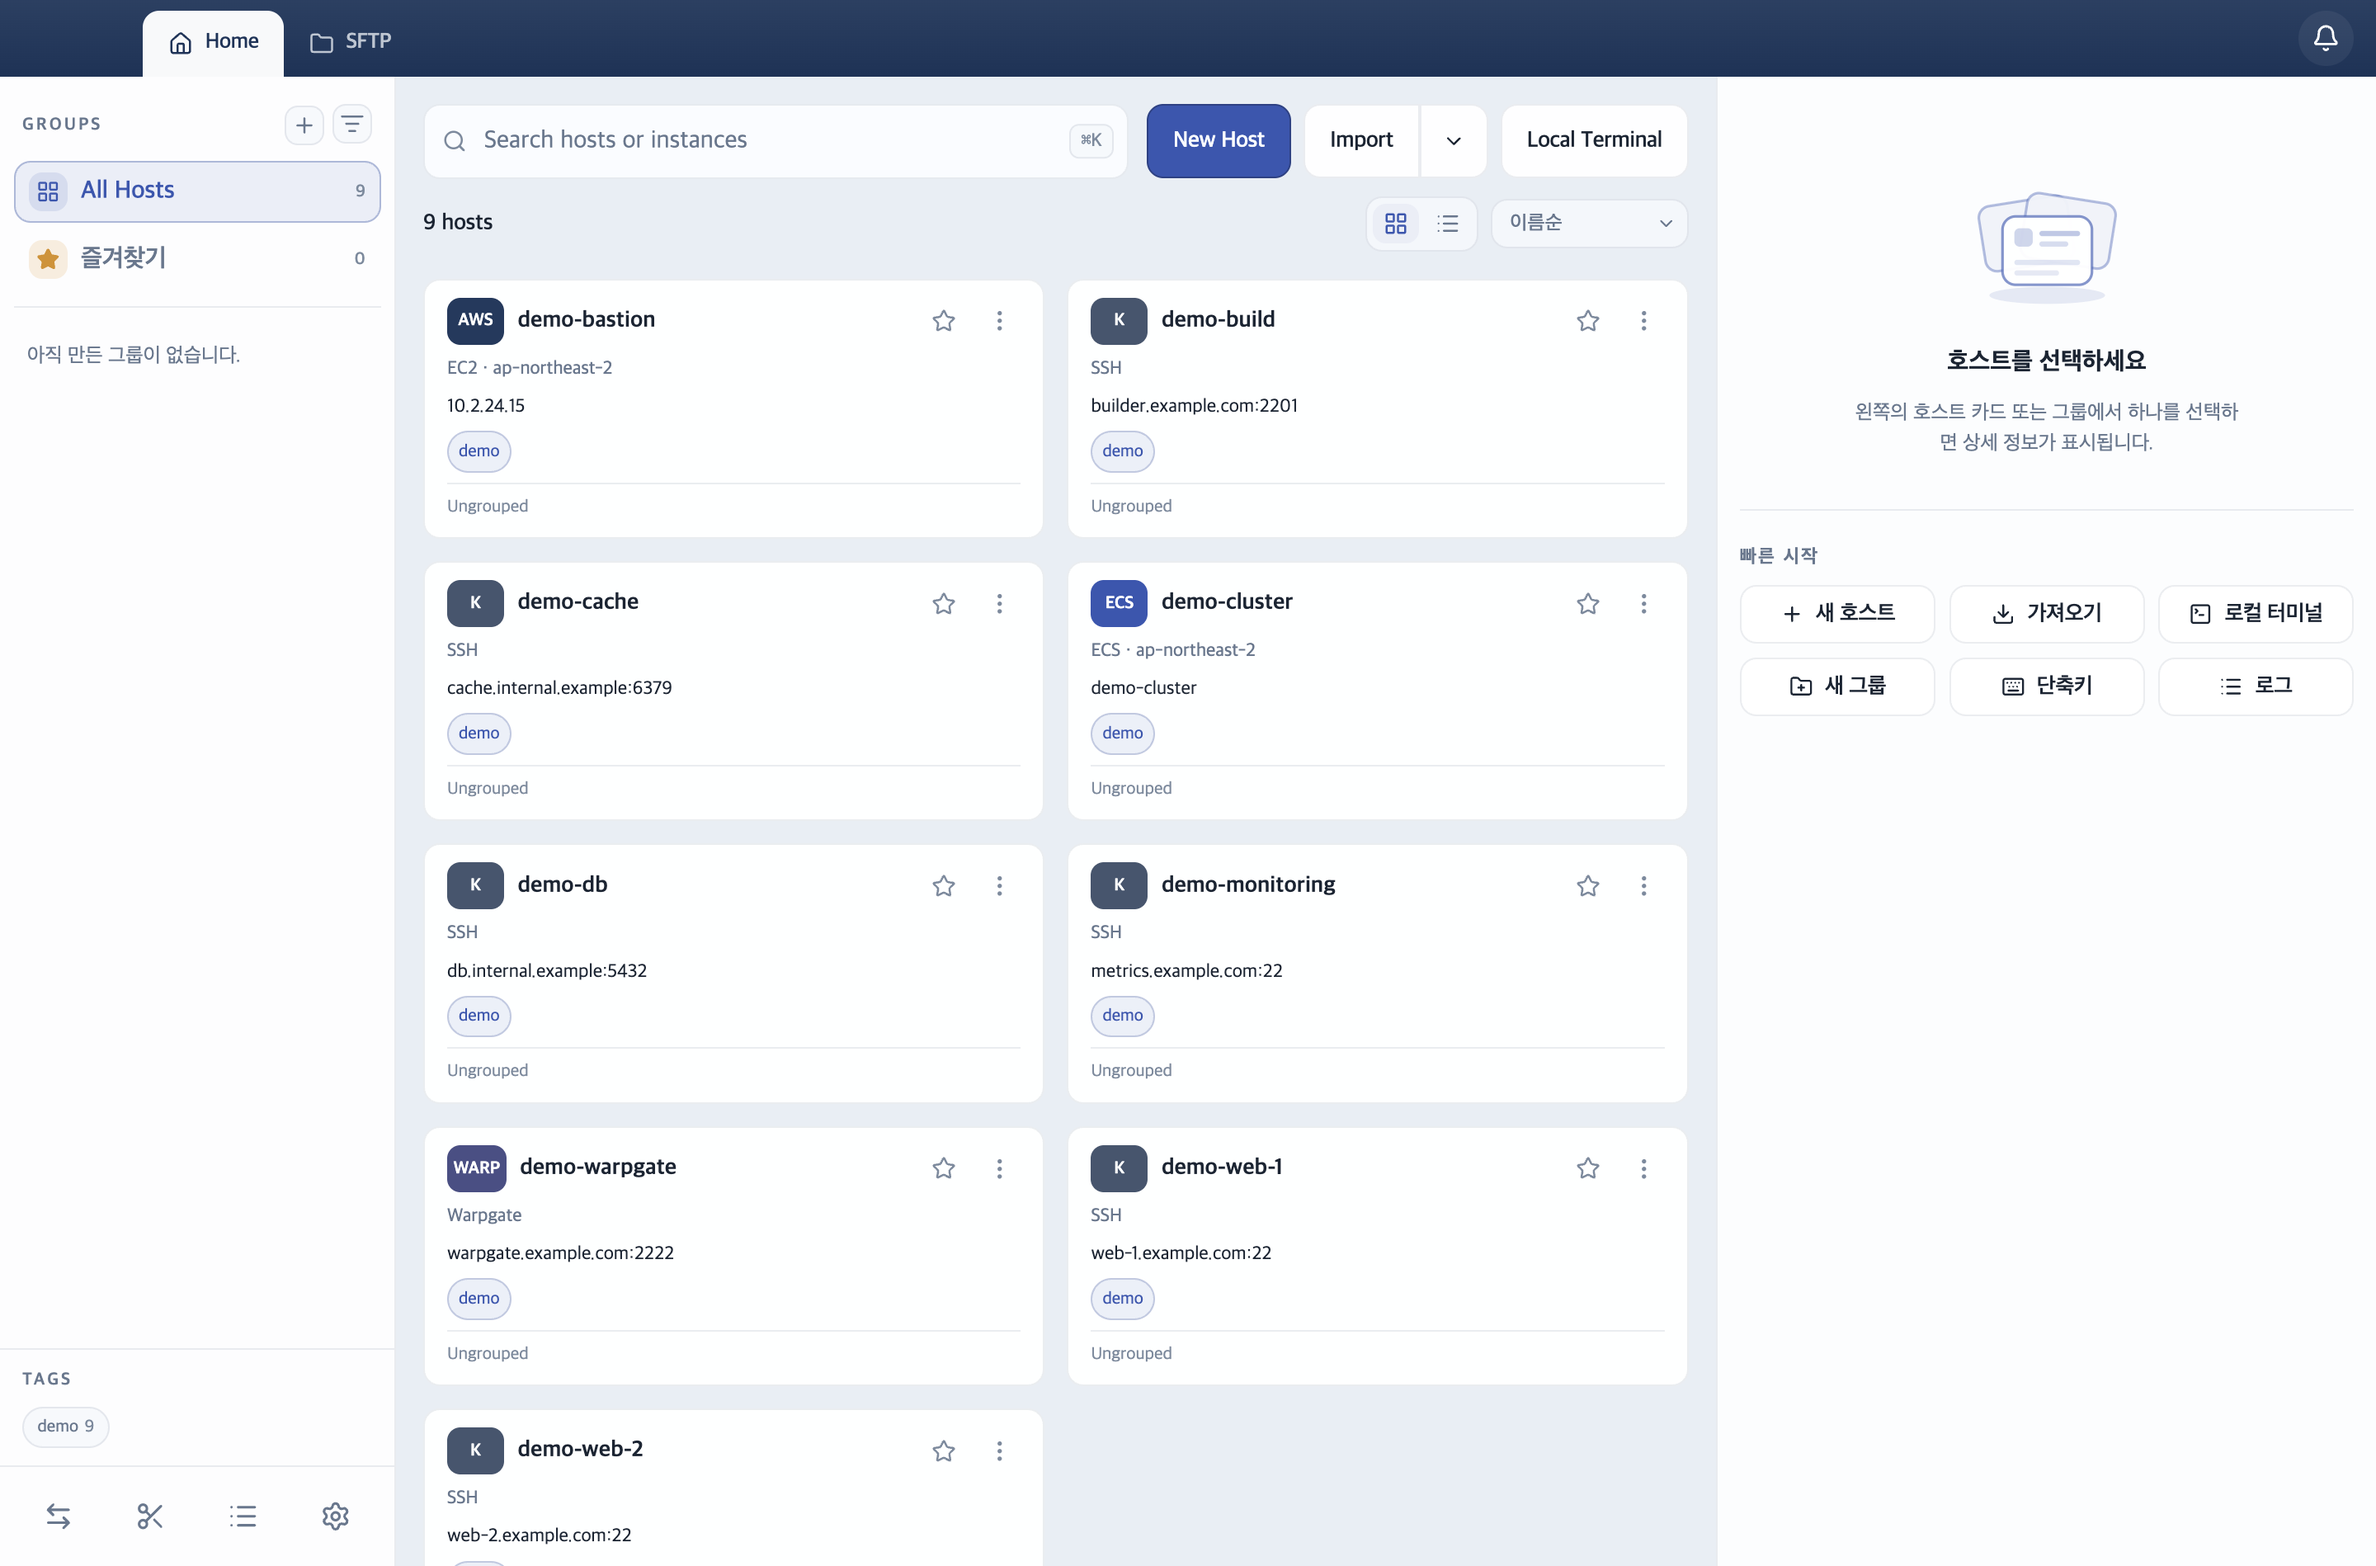
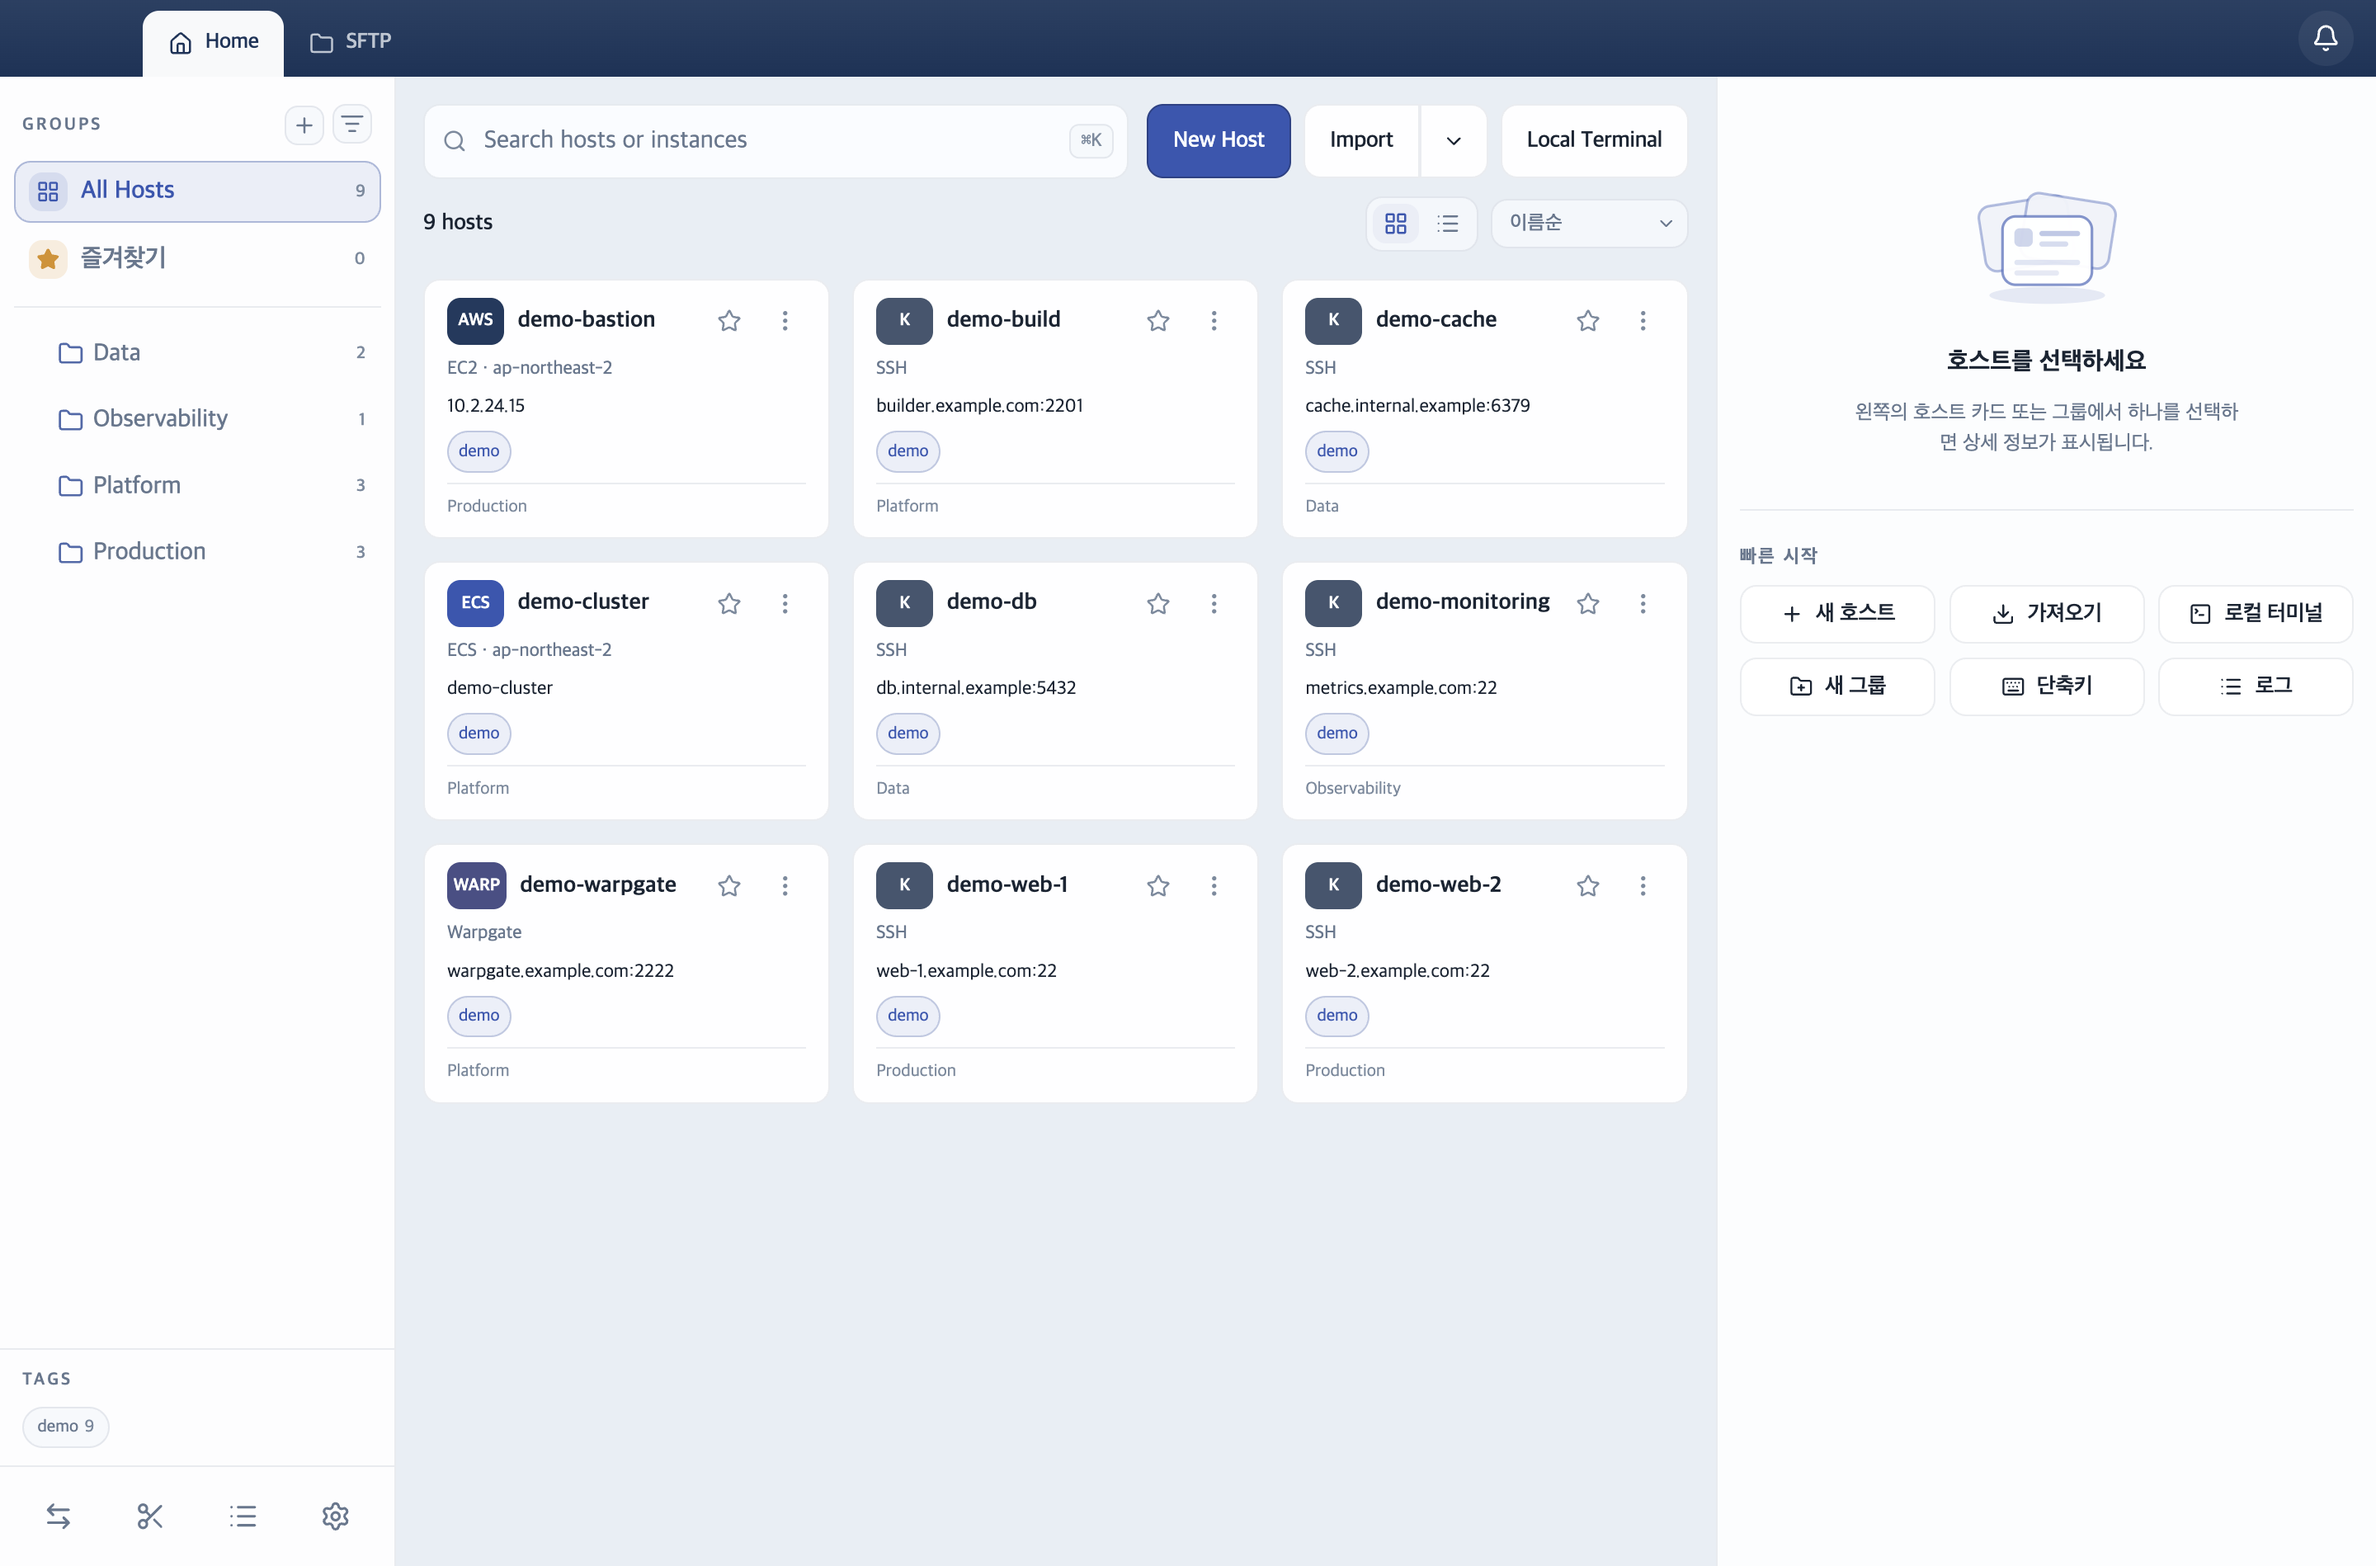
fix(desktop): Host 카드 크기 조정

diff --git a/apps/desktop/src/renderer/components/HostBrowser.test.tsx b/apps/desktop/src/renderer/components/HostBrowser.test.tsx
@@ -18,6 +18,11 @@ import {
   HOST_BROWSER_IMPORT_MENU_LABELS
 } from './HostBrowser';
 import { resolveResponsiveCardGridLayout } from '../lib/responsive-card-grid';
+import {
+  HOME_BROWSER_CARD_GAP_PX,
+  HOME_BROWSER_HOST_CARD_MAX_WIDTH_PX,
+  HOME_BROWSER_HOST_CARD_MIN_WIDTH_PX,
+} from './host-browser/useHostBrowser';
 
 const resizeObserverInstances: MockResizeObserver[] = [];
 
@@ -562,9 +567,9 @@ describe('HostBrowser helpers', () => {
     const expectedLayout = resolveResponsiveCardGridLayout({
       containerWidth: 1200,
       itemCount: 3,
-      minWidth: 280,
-      maxWidth: 460,
-      gap: 13.6
+      minWidth: HOME_BROWSER_HOST_CARD_MIN_WIDTH_PX,
+      maxWidth: HOME_BROWSER_HOST_CARD_MAX_WIDTH_PX,
+      gap: HOME_BROWSER_CARD_GAP_PX,
     });
 
     await waitFor(() => {

diff --git a/apps/desktop/src/renderer/components/host-browser/useHostBrowser.ts b/apps/desktop/src/renderer/components/host-browser/useHostBrowser.ts
@@ -29,7 +29,7 @@ import { getKeyboardLayoutSearchQueries } from '../../lib/keyboard-layout-search
 import { useResponsiveCardGrid } from '../../lib/useResponsiveCardGrid';
 import type { DesktopPlatform } from '../DesktopWindowControls';
 
-export const HOME_BROWSER_HOST_CARD_MIN_WIDTH_PX = 280;
+export const HOME_BROWSER_HOST_CARD_MIN_WIDTH_PX = 235;
 export const HOME_BROWSER_HOST_CARD_MAX_WIDTH_PX = 460;
 export const HOME_BROWSER_CARD_GAP_PX = 13.6;
 export const HOST_DRAG_MIME_TYPE = 'application/x-dolssh-host-id';
